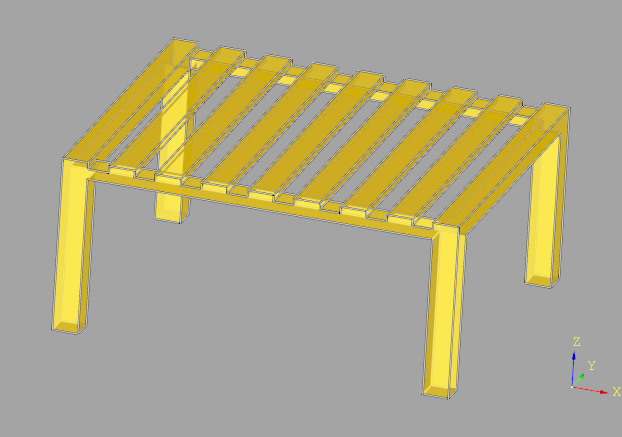
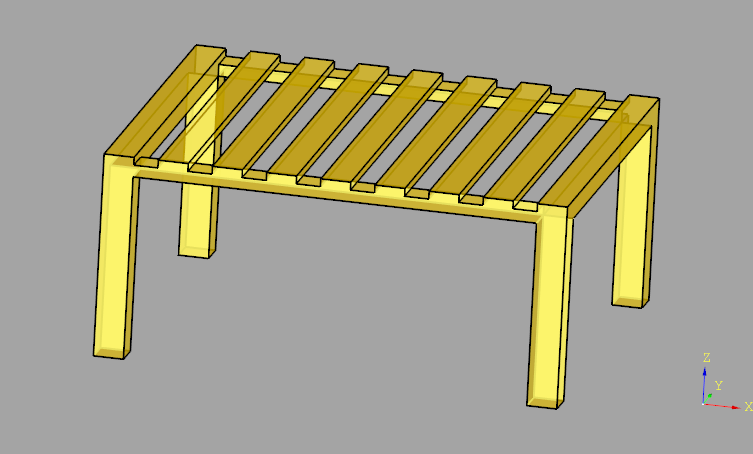
better screenshot for half

Changed region(s): [[0.0611, 0.0892, 0.9164, 0.9222], [0.9164, 0.7735, 0.9775, 0.8924], [0.9469, 0.8924, 1.0, 0.9222]]

diff --git a/student-bed.py b/student-bed.py
@@ -134,12 +134,12 @@ class SimpleBed:
         half = half.union(jamb.translate((+xo,-yo,uplift)))  # back  right
         half = half.union(jamb.translate((-xo,+yo,uplift)))  # front left
         half = half.union(jamb.translate((+xo,+yo,uplift)))  # front right
-        #show_object(half,name="half",options={"alpha":0.2,"color":(255,170,0)})
+        show_object(half,name="half",options={"alpha":0.2,"color":(255,170,0)})
 
         align = 0.5*self.measures["stringer.length"]
         bed  = half.translate((-align,0,0))
         bed  = bed.union(half.translate((+align,0,0)))
-        show_object(bed,name="bed",options={"alpha":0.2,"color":(255,170, 0)})
+        #show_object(bed,name="bed",options={"alpha":0.2,"color":(255,170, 0)})
 
         self.model = bed
         return
